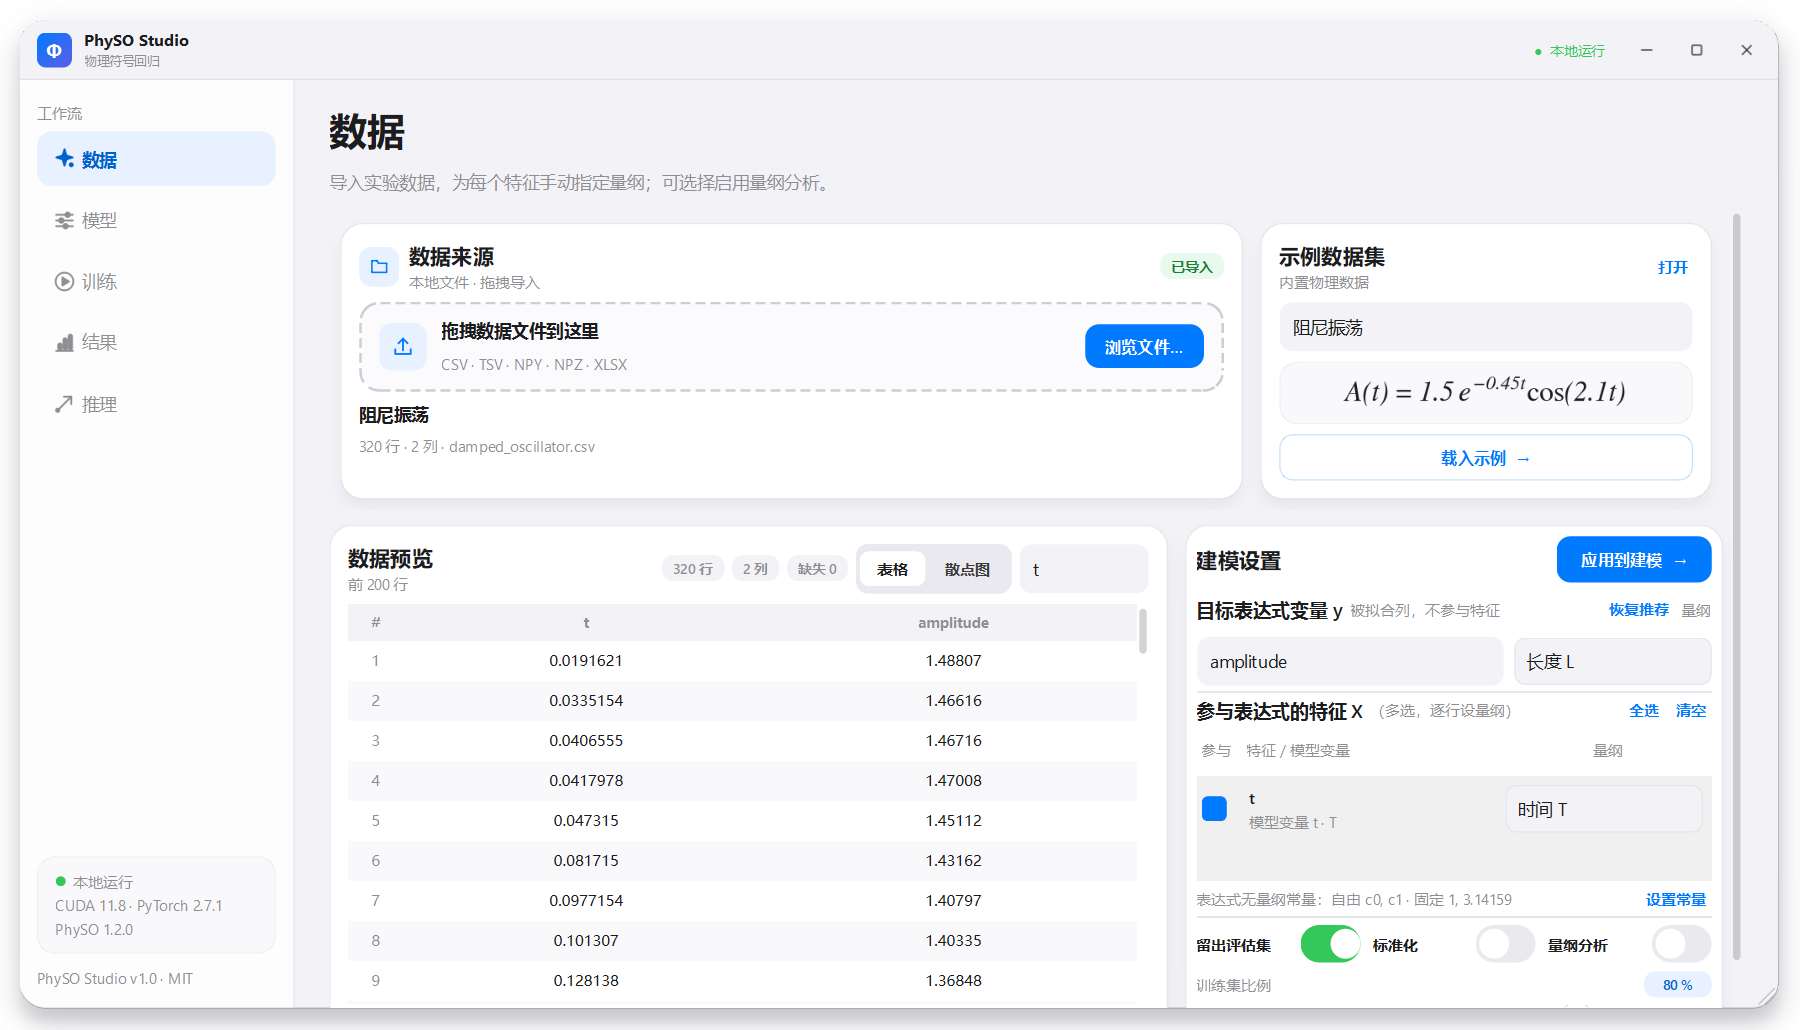
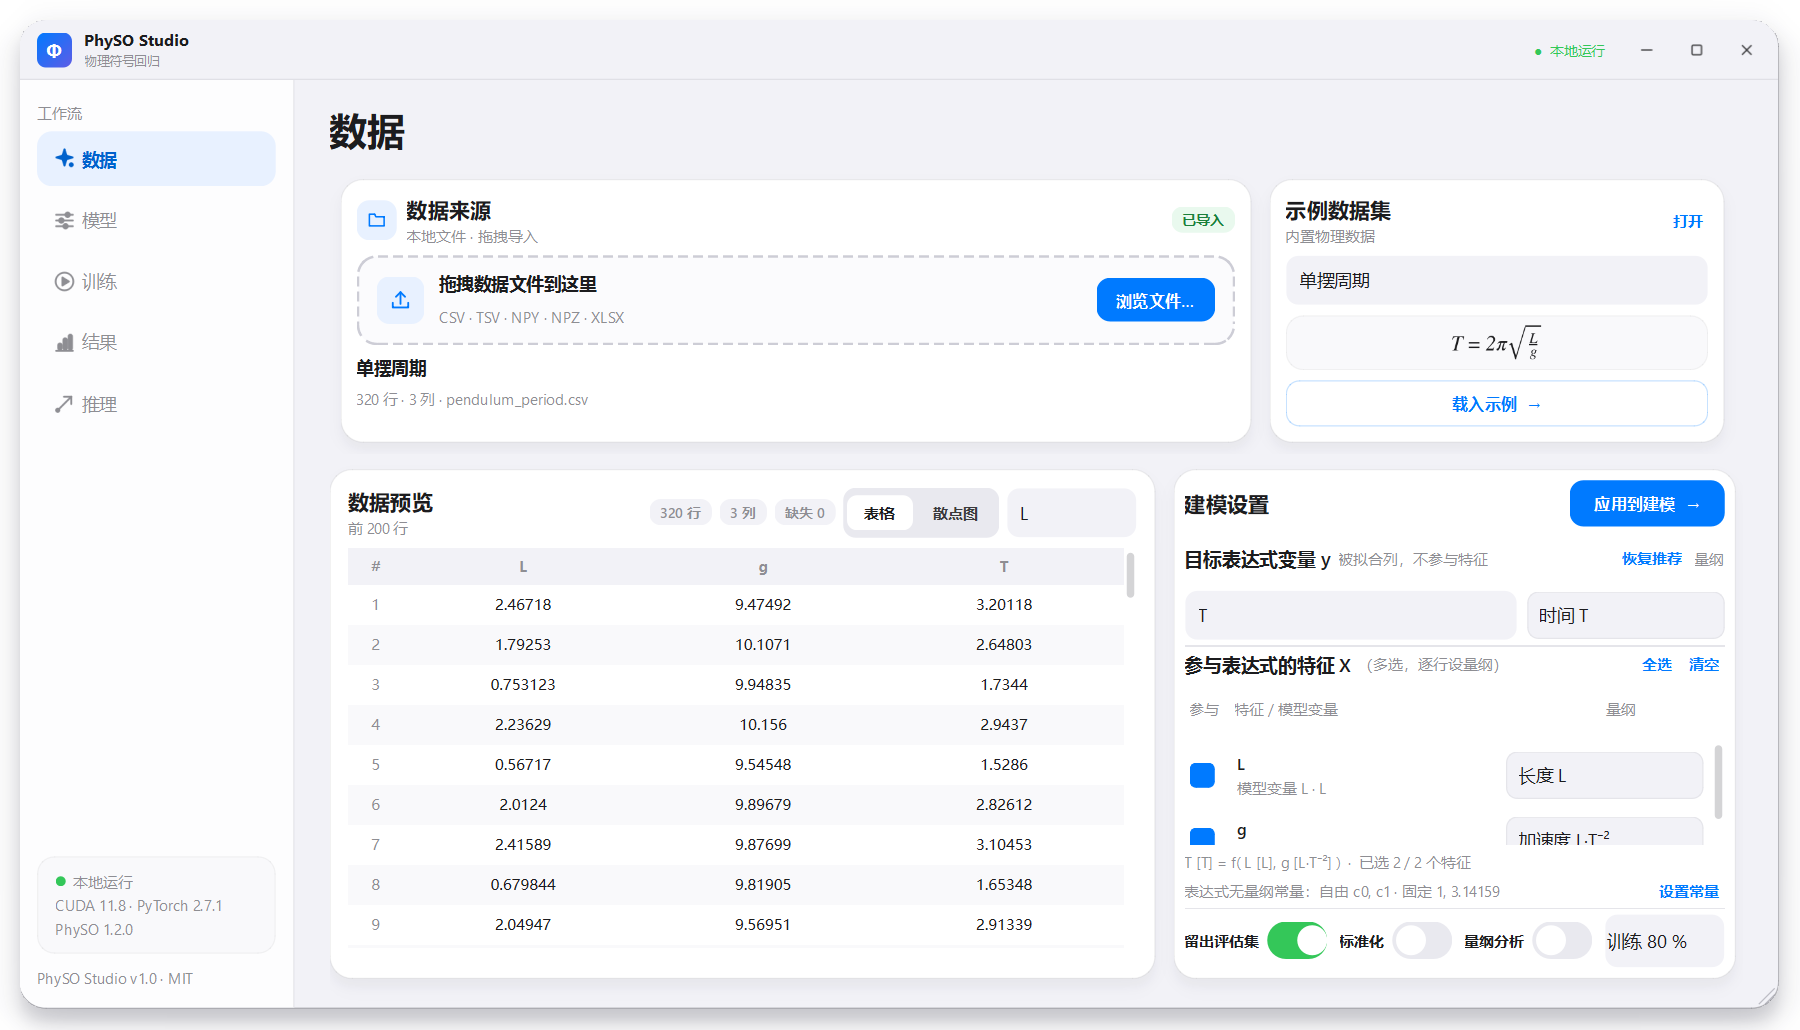
fix: polish compact layout and remove floating hint

diff --git a/physo_ui/pages/data_page.py b/physo_ui/pages/data_page.py
@@ -20,6 +20,7 @@ from PySide6.QtWidgets import (
     QPushButton,
     QScrollArea,
     QSizePolicy,
+    QSpinBox,
     QStackedWidget,
     QTableWidget,
     QTableWidgetItem,
@@ -120,6 +121,7 @@ class FeatureRow(QWidget):
 
     def __init__(self, column: str, model_name: str, vector, checked: bool, parent=None):
         super().__init__(parent)
+        self.setObjectName("FeatureRow")
         self.column = column
         self.model_name = model_name
         lay = QHBoxLayout(self)
@@ -195,6 +197,8 @@ class DataPage(ScrollPage):
         self._rows: dict[str, FeatureRow] = {}
         self._build()
         self.state.raw_changed.connect(self._on_raw_changed)
+        self.subtitle_label.setVisible(False)
+        self.layout().setSpacing(8)
         self.state.config_changed.connect(self._update_constants_note)
         self._on_raw_changed()
         self._update_constants_note()
@@ -227,7 +231,7 @@ class DataPage(ScrollPage):
         self.body_layout.addStretch(1)
 
     def _build_source_card(self) -> Card:
-        card = Card(padding=14)
+        card = Card(padding=12)
         card.layout.setSpacing(8)
         head = QHBoxLayout()
         head.setSpacing(8)
@@ -251,7 +255,7 @@ class DataPage(ScrollPage):
         return card
 
     def _build_demo_card(self) -> Card:
-        card = Card(padding=14)
+        card = Card(padding=12)
         card.layout.setSpacing(8)
         head = QHBoxLayout()
         head.setSpacing(6)
@@ -275,7 +279,7 @@ class DataPage(ScrollPage):
         f_lay = QVBoxLayout(formula_box)
         f_lay.setContentsMargins(6, 2, 6, 2)
         self.demo_formula = MathLabel("", fontsize=12, min_height=26)
-        self.demo_formula.setFixedHeight(44)
+        self.demo_formula.setFixedHeight(38)
         f_lay.addWidget(self.demo_formula)
         card.layout.addWidget(formula_box)
 
@@ -353,14 +357,6 @@ class DataPage(ScrollPage):
         header.addWidget(self.apply_btn)
         card.layout.addLayout(header)
 
-        self.formula_preview = label("", "Caption", wrap=True)
-        self.formula_preview.setStyleSheet(
-            f"background:{theme.CARD_ALT}; border:1px solid {theme.SEPARATOR}; border-radius:9px;"
-            "padding:7px 9px; font-family:Consolas, 'Cascadia Code', monospace; font-size:11px;"
-        )
-        self.formula_preview.setMaximumHeight(38)
-        self.formula_preview.setVisible(False)
-
         target_bar = QHBoxLayout()
         target_bar.setSpacing(6)
         target_bar.addWidget(label("目标表达式变量 y", "CardTitle"))
@@ -422,12 +418,19 @@ class DataPage(ScrollPage):
         self.feature_scroll.setMinimumHeight(58)
         self.feature_host = QWidget()
         self.feature_layout = QVBoxLayout(self.feature_host)
-        self.feature_layout.setContentsMargins(0, 0, 3, 0)
+        self.feature_layout.setContentsMargins(0, 2, 3, 2)
         self.feature_layout.setSpacing(0)
         self.feature_scroll.setWidget(self.feature_host)
+        self.feature_scroll.viewport().setAutoFillBackground(False)
+        self.feature_scroll.viewport().setObjectName("FeatureViewport")
+        self.feature_scroll.setStyleSheet(
+            "QScrollArea, QWidget#FeatureViewport { background: transparent; border: none; }"
+        )
+        self.feature_host.setAutoFillBackground(False)
         card.layout.addWidget(self.feature_scroll)
-        self.feature_hint = label("", "Caption", wrap=True)
-        self.feature_hint.setVisible(False)
+        self.feature_hint = label("", "Caption", wrap=False)
+        self.feature_hint.setMaximumHeight(18)
+        card.layout.addWidget(self.feature_hint)
 
         constants_row = QHBoxLayout()
         constants_row.setSpacing(6)
@@ -457,11 +460,17 @@ class DataPage(ScrollPage):
         self.da_toggle.toggle.toggled.connect(self._on_selection_changed)
         for widget in (self.split_toggle, self.norm_toggle, self.da_toggle):
             toggles.addWidget(widget, 1)
+        self.split_spin = QSpinBox()
+        self.split_spin.setRange(50, 90)
+        self.split_spin.setSingleStep(5)
+        self.split_spin.setValue(80)
+        self.split_spin.setPrefix("训练 ")
+        self.split_spin.setSuffix(" %")
+        self.split_spin.setFixedWidth(96)
+        self.split_spin.setToolTip("训练集比例；其余作为评估集")
+        self.split_spin.valueChanged.connect(self._on_selection_changed)
+        toggles.addWidget(self.split_spin)
         card.layout.addLayout(toggles)
-
-        self.split_slider = LabeledSlider("训练集比例", 50, 90, 80, suffix=" %", step=5)
-        self.split_slider.valueChanged.connect(self._on_selection_changed)
-        card.layout.addWidget(self.split_slider)
 
         self.selection_info = label("", "Caption", wrap=True)
         self.selection_info.setVisible(False)
@@ -601,7 +610,6 @@ class DataPage(ScrollPage):
         self.preview_stack.setVisible(False)
         self.preview_empty.setVisible(True)
         self.preview_segment.setEnabled(False)
-        self.formula_preview.setText("")
         self.constants_note.setText("")
         self.reset_btn.setEnabled(False)
         self.y_combo.clear()
@@ -725,7 +733,7 @@ class DataPage(ScrollPage):
         self._draw_preview()
 
     def _on_split_toggled(self, checked: bool) -> None:
-        self.split_slider.setEnabled(checked)
+        self.split_spin.setEnabled(checked)
         self._update_info()
 
     def _update_info(self) -> None:
@@ -741,15 +749,13 @@ class DataPage(ScrollPage):
             formula = f"{y} [{format_units(y_unit)}] = f( ? )"
         else:
             formula = "请先导入数据并选择目标变量"
-        self.formula_preview.setText(formula)
         self.feature_hint.setText(
             f"{formula}  ·  已选 {len(x)} / {len(self._rows)} 个特征"
             if self._rows
             else "没有可作为输入特征的数值列"
         )
-        self.feature_hint.setVisible(bool(self._rows))
         self.apply_btn.setEnabled(bool(x and y and self.state.raw is not None and self._rows))
-        self.split_slider.setEnabled(self.split_toggle.isChecked())
+        self.split_spin.setEnabled(self.split_toggle.isChecked())
 
     def _on_preview_mode(self, index: int) -> None:
         self.preview_stack.setCurrentIndex(index)
@@ -852,7 +858,7 @@ class DataPage(ScrollPage):
                 raw,
                 x,
                 y,
-                train_fraction=self.split_slider.value() / 100.0,
+                train_fraction=self.split_spin.value() / 100.0,
                 split_enabled=self.split_toggle.isChecked(),
                 normalize=self.norm_toggle.isChecked(),
                 x_units=x_units,

diff --git a/physo_ui/theme.py b/physo_ui/theme.py
@@ -124,6 +124,10 @@ QPushButton[variant="win"]:hover {{
 QPushButton#WinClose:hover {{
     background: {RED};
 }}
+QWidget#FeatureRow {{
+    background: #FAFAFC;
+    border-radius: 8px;
+}}
 QWidget#Sidebar {{
     background: rgba(255, 255, 255, 0.86);
     border-right: 1px solid {SEPARATOR};
